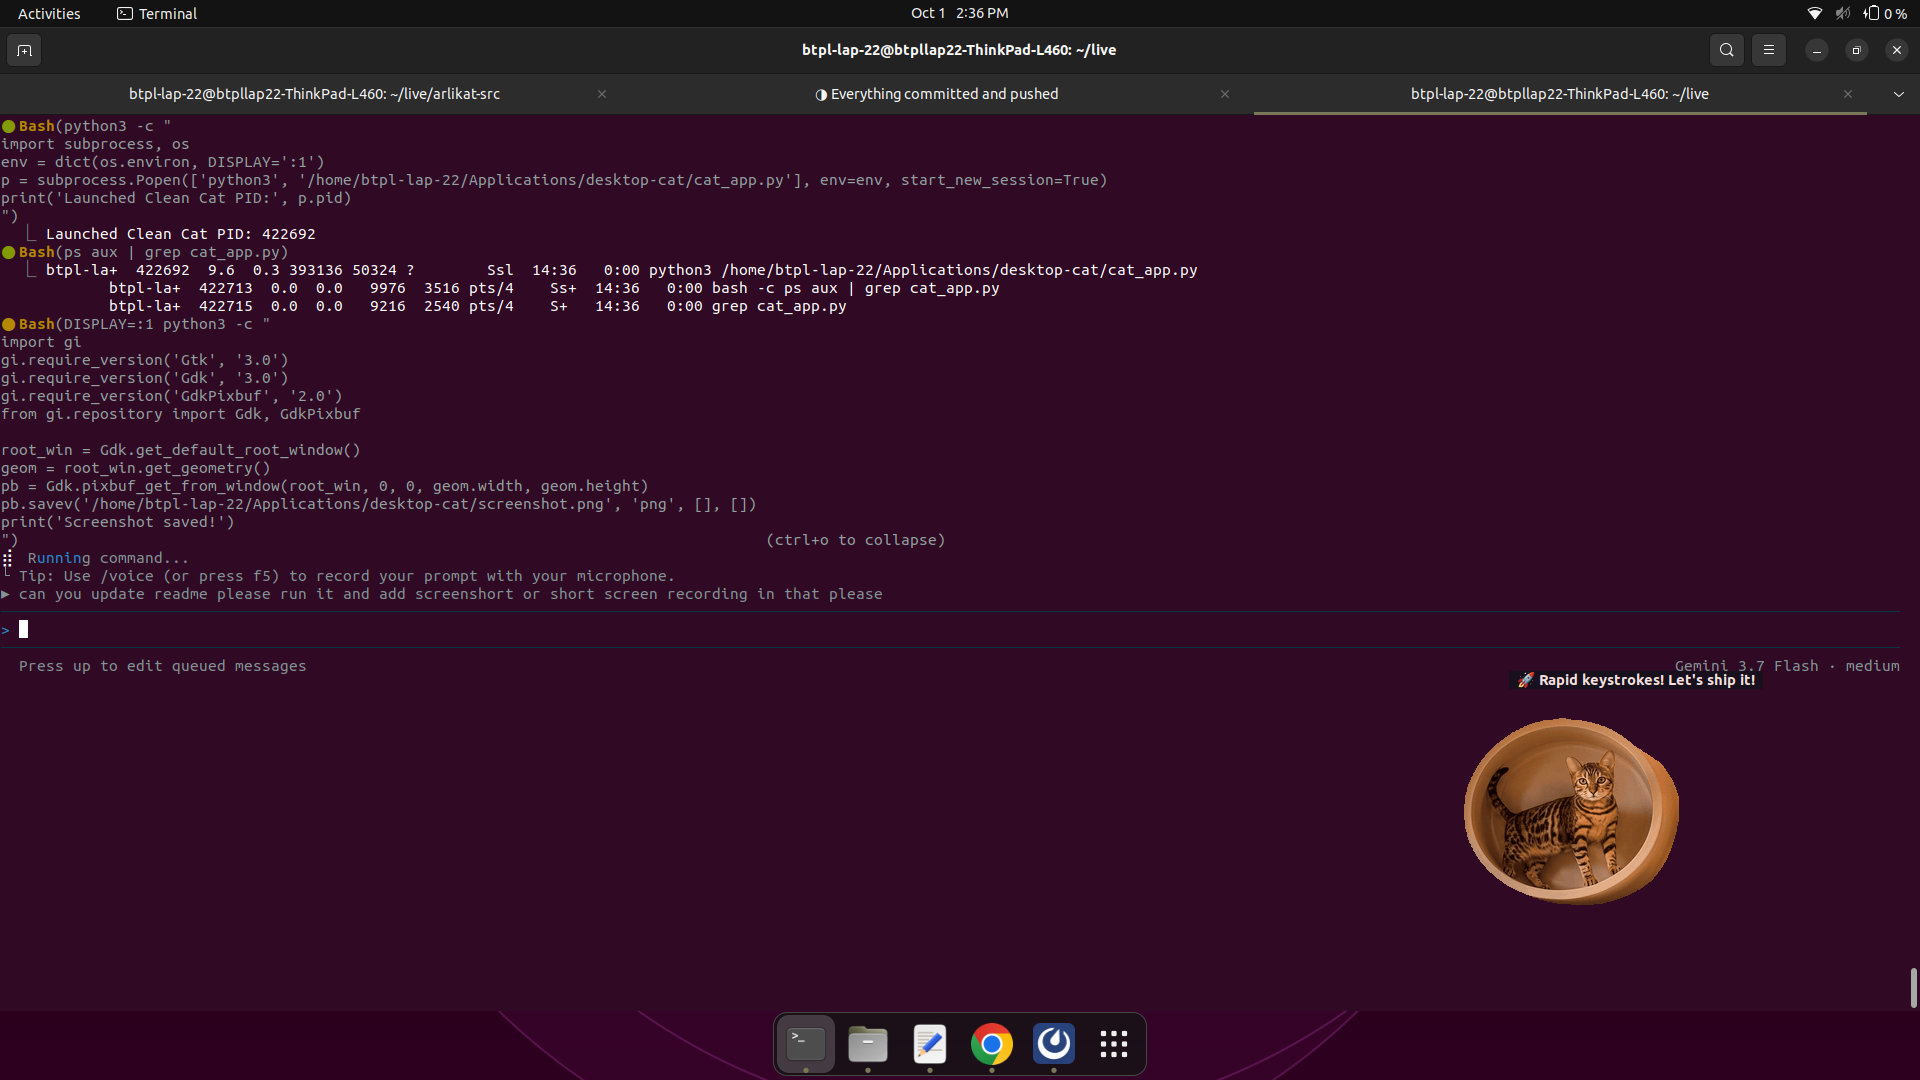
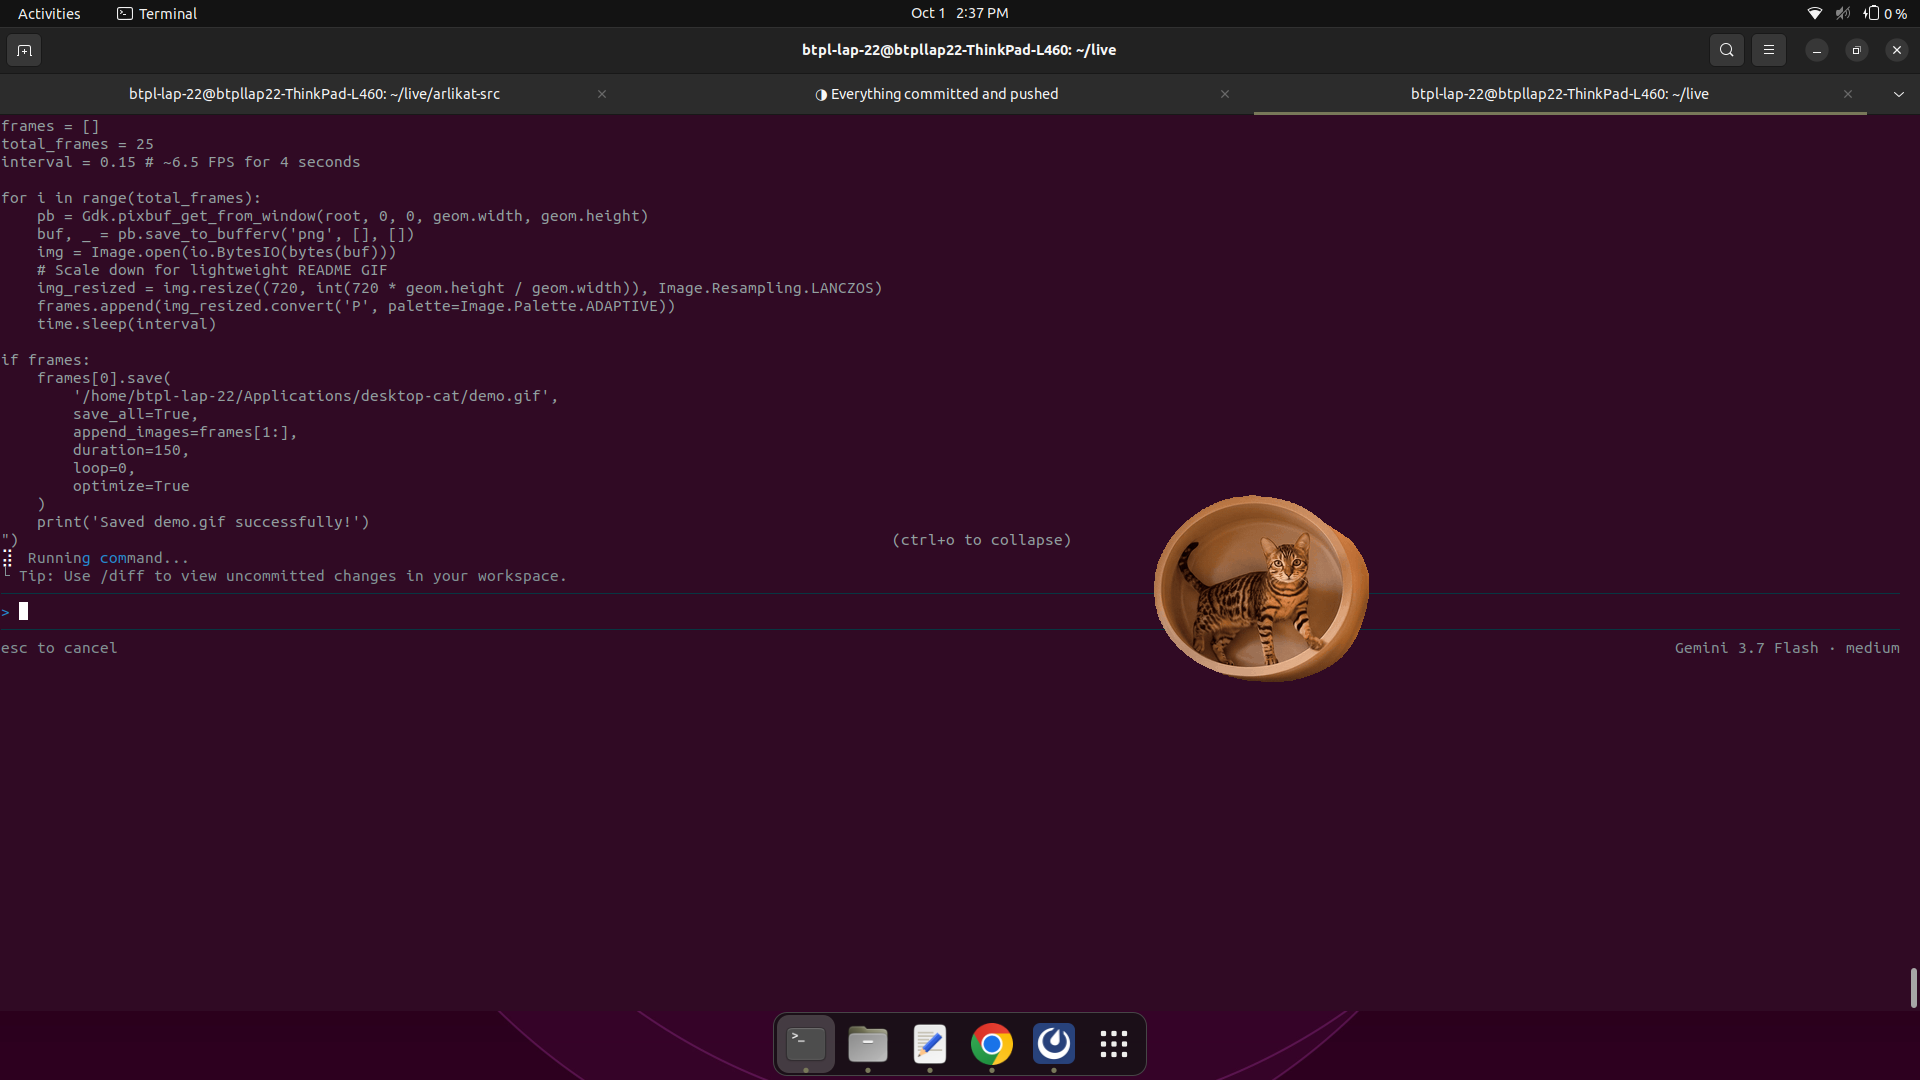
docs: add animated screen recording demo, updated screenshot, and full feature documentation

diff --git a/README.md b/README.md
@@ -2,53 +2,76 @@
 
 An autonomous, photorealistic desktop cat companion for Linux (Ubuntu / GNOME / X11).
 
+![Real Desktop Cat Demo](demo.gif)
+
+---
+
+## 📸 Desktop Preview
+
 ![Desktop Cat Screenshot](screenshot.png)
+
+---
 
 ## ✨ Features
 
-- 🐱 **100% Photorealistic Real Cats:** High-definition real cat animations with true per-pixel RGBA transparency.
-- 🖱 **Real-Time Mouse Cursor Tracking:** Senses your mouse movements and actively walks across your dock/screen to stay near where you are working.
-- ⌨ **Keyboard Typing & Coding Reactions:** Detects active keyboard typing in real time and cheers you on with cute focus animations and encouragement.
-- 📸 **100+ Real Cat Gallery:** Includes a built-in library of over 100+ real cat photos and animations.
-- 🤖 **100% Autonomous:** Automatically cycles between resting on its mat, roaming, alert observing, and grooming.
+- 🐱 **100% Photorealistic Real Cats:** High-definition real cat animations and photos with true per-pixel RGBA transparency.
+- 🖱 **Full 2D Screen Tracking (X & Y Axes):** Senses your mouse cursor across the entire screen and gently walks to stay nearby with ergonomic offset.
+- 🐢 **Ultra-Gentle, Natural Pacing:** Smooth deceleration easing and relaxed pacing mimicking real cat strolls (with customizable speeds: *Ultra Gentle Stroll, Lazy Sloth Meander, Light Walk*).
+- 📸 **115+ Real Cat Photo & Animation Gallery:** Built-in auto-cycling slideshow every 18 seconds featuring 115+ real cat breeds and moments.
+- ⌨ **Live Keyboard Typing & Coding Reactions:** Detects active keyboard typing in real time across any window and cheers you on with cute bongo paws and encouragement.
+- 🤖 **100% Autonomous:** Automatically cycles between resting on its mat, roaming, alert observing, and cheering.
 - 🔒 **Single-Instance Mutex:** Uses kernel file locking (`fcntl.flock`) to guarantee duplicate instances never collide.
 
 ---
 
-## 🚀 Installation & Running
+## 🚀 Quick Start (Ubuntu / Debian)
 
-### Requirements (Ubuntu / Debian)
+### 1. Install System Dependencies
 ```bash
 sudo apt update
-sudo apt install -y python3-gi python3-cairo gir1.2-gtk-3.0
+sudo apt install -y python3-gi python3-cairo gir1.2-gtk-3.0 python3-pil
 ```
 
-### Run
+### 2. Run Desktop Cat
 ```bash
-python3 cat_app.py &
+DISPLAY=:1 python3 cat_app.py &
 ```
 
 ---
 
 ## 🎮 Controls & Interactions
 
-- **Left-Click & Drag:** Move the cat anywhere along your dock or windows.
-- **Double-Click:** Pet the cat to trigger happy purrs and heart reactions.
-- **Right-Click Menu:**
-  - 🖱 **Toggle Mouse Following:** Turn real-time cursor tracking on/off.
-  - 📸 **Random 100+ Cat Gallery:** Cycle through 100+ real cats.
-  - 🐟 **Feed Tuna Fish:** Give your cat a treat.
-  - 🐱 **Choose Real Cat Breed:** Switch between *Golden Tabby, Fluffy Longhair, Ragdoll, Tuxedo, Bengal, or Exotic Shorthair*.
-  - ❌ **Close Cat:** Exit cleanly.
+| Action | Result |
+|---|---|
+| **Left-Click & Drag** | Move the cat anywhere across your desktop or windows |
+| **Double-Click** | Cycle to the next cat photo from the 115+ gallery and purr! |
+| **Middle-Click** | Instantly load the next gallery cat photo |
+| **Right-Click Menu** | Open full feature control panel |
+
+### 🎛 Right-Click Menu Options:
+- 🖱 **Full 2D Mouse Cursor Following:** Toggle screen-wide cursor following ON/OFF.
+- 🐾 **Walking Pace / Speed:**
+  - 🐾 *Ultra Gentle Stroll* (Default — Slow & Cute)
+  - 🍃 *Lazy Sloth Meander* (Super Slow)
+  - 🚶 *Light Walk*
+- 📸 **115+ Real Cat Gallery:**
+  - `Next Cat Photo ➡`
+  - `Previous Cat Photo ⬅`
+  - `Random Cat Photo 🎲`
+  - `Auto-Cycle Photos (Every 18s) ⏱` *(Toggle auto-slideshow)*
+- ❤ **Pet Cat:** Trigger happy purring and heart bubbles.
+- 🐟 **Feed Tuna Fish:** Treat your companion to fresh tuna snack.
+- 🐱 **Choose Animated Cat Breed:** Switch between *Golden Tabby (on Mat), Fluffy Longhair, Ragdoll, Tuxedo Mustache, Bengal Leopard, or Exotic Shorthair*.
+- ❌ **Close Cat:** Clean exit and lock release.
 
 ---
 
-## 🏗 Clean Code Architecture
+## 🏗 Clean Modular Architecture
 
 - **`SingleInstanceGuard`:** File locking mutex to ensure single-process execution.
-- **`X11KeyboardDetector`:** Real-time low-level X11 keymap query via `ctypes` (zero root/sudo required).
-- **`AutonomousCatBrain`:** Probabilistic state machine handling pacing, mouse following distance thresholds, and typing cheer triggers.
-- **`DesktopCatWindow`:** GTK3 + Cairo composited transparent window running on a 30 FPS non-blocking GLib event loop.
+- **`X11KeyboardDetector`:** Real-time low-level X11 keymap query via `ctypes` (`libX11.so.6` `XQueryKeymap`, zero root/sudo required).
+- **`AutonomousCatBrain`:** Full 2D Euclidean vector state machine handling pacing, relaxed distance thresholds, and typing cheer triggers.
+- **`DesktopCatWindow`:** GTK3 + Cairo composited transparent window running on a 30 FPS non-blocking GLib event loop with auto-rotating gallery integration.
 
 ---
 
